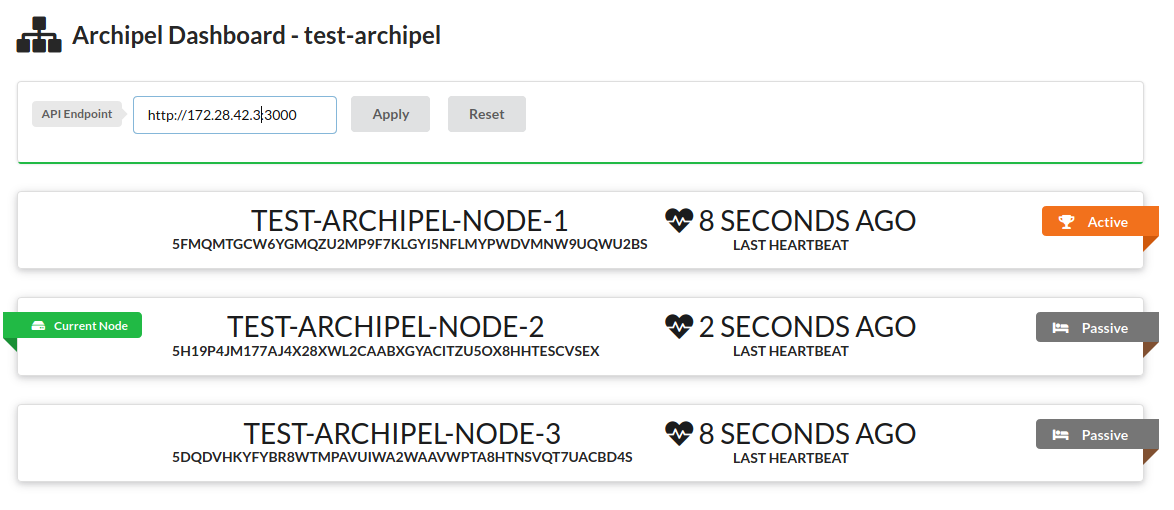
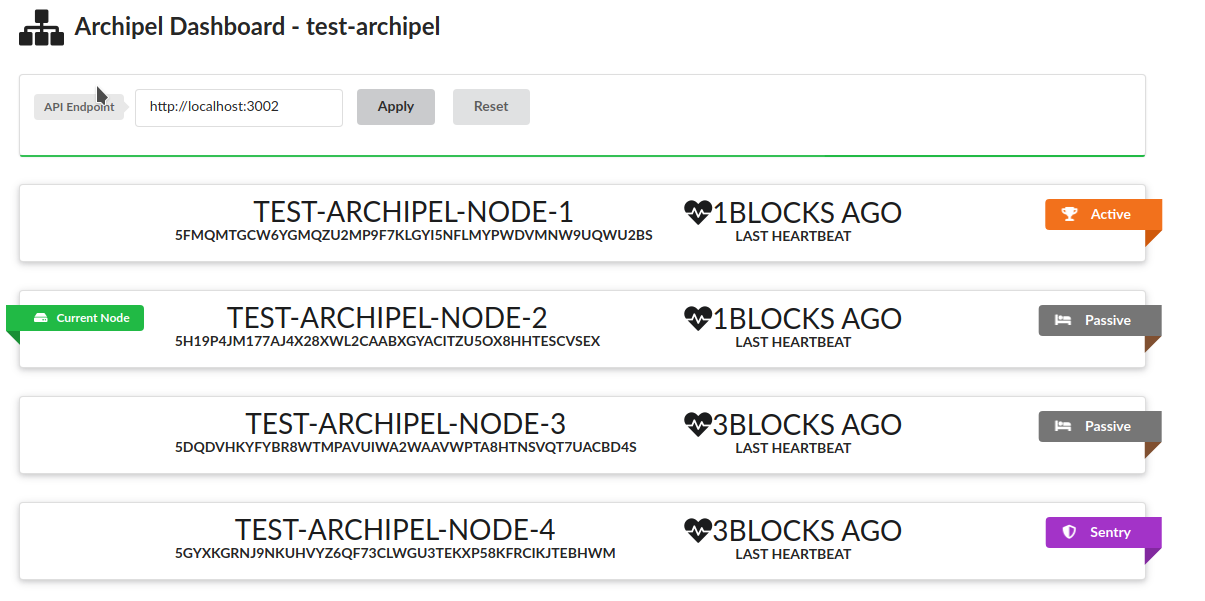
update doc federation testing #246

diff --git a/doc/archipel-federation-testing.md b/doc/archipel-federation-testing.md
@@ -12,7 +12,7 @@
 What will be launched:
 
 - **4 Archipel nodes** (Archipel Substrate Validator Node + Orchestrator)
-- **3 Polkadot KUSAMA Nodes**
+- **4 Polkadot KUSAMA Nodes**
 
   - 1 Validator Node
   - 2 Passive Nodes
@@ -88,9 +88,9 @@ docker ps
 
 You must see multiple containers launched:
 
-- **3 Archipel nodes**: archipel1, archipel2, archipel3, archipel4
+- **4 Archipel nodes**: archipel1, archipel2, archipel3, archipel4
 - **Archipel UI**: archipel-ui
-- **3 Polkadot KUSAMA nodes**
+- **4 Polkadot KUSAMA nodes**
   - 1 Validator Node: node1-polkadot-validator
   - 2 Passives Nodes: node2-polkadot-sync, node3-polkadot-sync
   - 1 Sentry Nodes: node4-polkadot-sentry
@@ -99,10 +99,10 @@ You must see multiple containers launched:
 
 https://telemetry.polkadot.io/#/Kusama
 
-- You must see 3 archipel nodes running
-  - test-archipel-node-1-{active or passive}
-  - test-archipel-node-2-{active or passive}
-  - test-archipel-node-3-{active or passive}
+- You must see 4 archipel nodes running
+  - test-archipel-node-active
+  - test-archipel-node-2-passive
+  - test-archipel-node-3-passive
   - test-archipel-node-4-sentry
 - Active node = Validator Node
 - Passive node = Full node ready to backup the validator Node in clase of failure
@@ -144,7 +144,9 @@ docker ps
  <img src=./images/archipel-testing-docker-ps-2.png width = 1000>
 </p>
 
-### 3.3 Wait for Archipel Orchestration (Generally takes about 1 minute)
+### 3.3 Wait for Archipel Orchestration
+
+**Wait 15 blocks for Archipel Orchestration (Generally takes about 2 minutes)**
 
 ### 3.4 Track orchestration
 
@@ -160,6 +162,8 @@ You can use Node 2 API : **http://172.28.42.3:3000** at **http://localhost:3002*
 </p>
 
 **Telemetry**
+
+You must still see test-archipel-node-active ( but only 3 nodes test-archipel-node\* instead of 4).
 
 https://telemetry.polkadot.io/#/Kusama
 
@@ -226,10 +230,3 @@ The old active node was restarted in passive mode.
 - removes all containers launched by test scripts and all directories created by containers
 
 ## Play: Feel free to play with Archipel!
-
-**Warning!** Archipel must have minimum **2 nodes** alive to have an active service (validator) running!
-
-- If you stop 2 nodes the third node will remain in passive mode!
-- If you stop 2 passive nodes, the active node will switch in passive mode!
-
-We are considering that if 1 node is alone in Archipel Federation, there is a problem, so it should not continue to validate.
